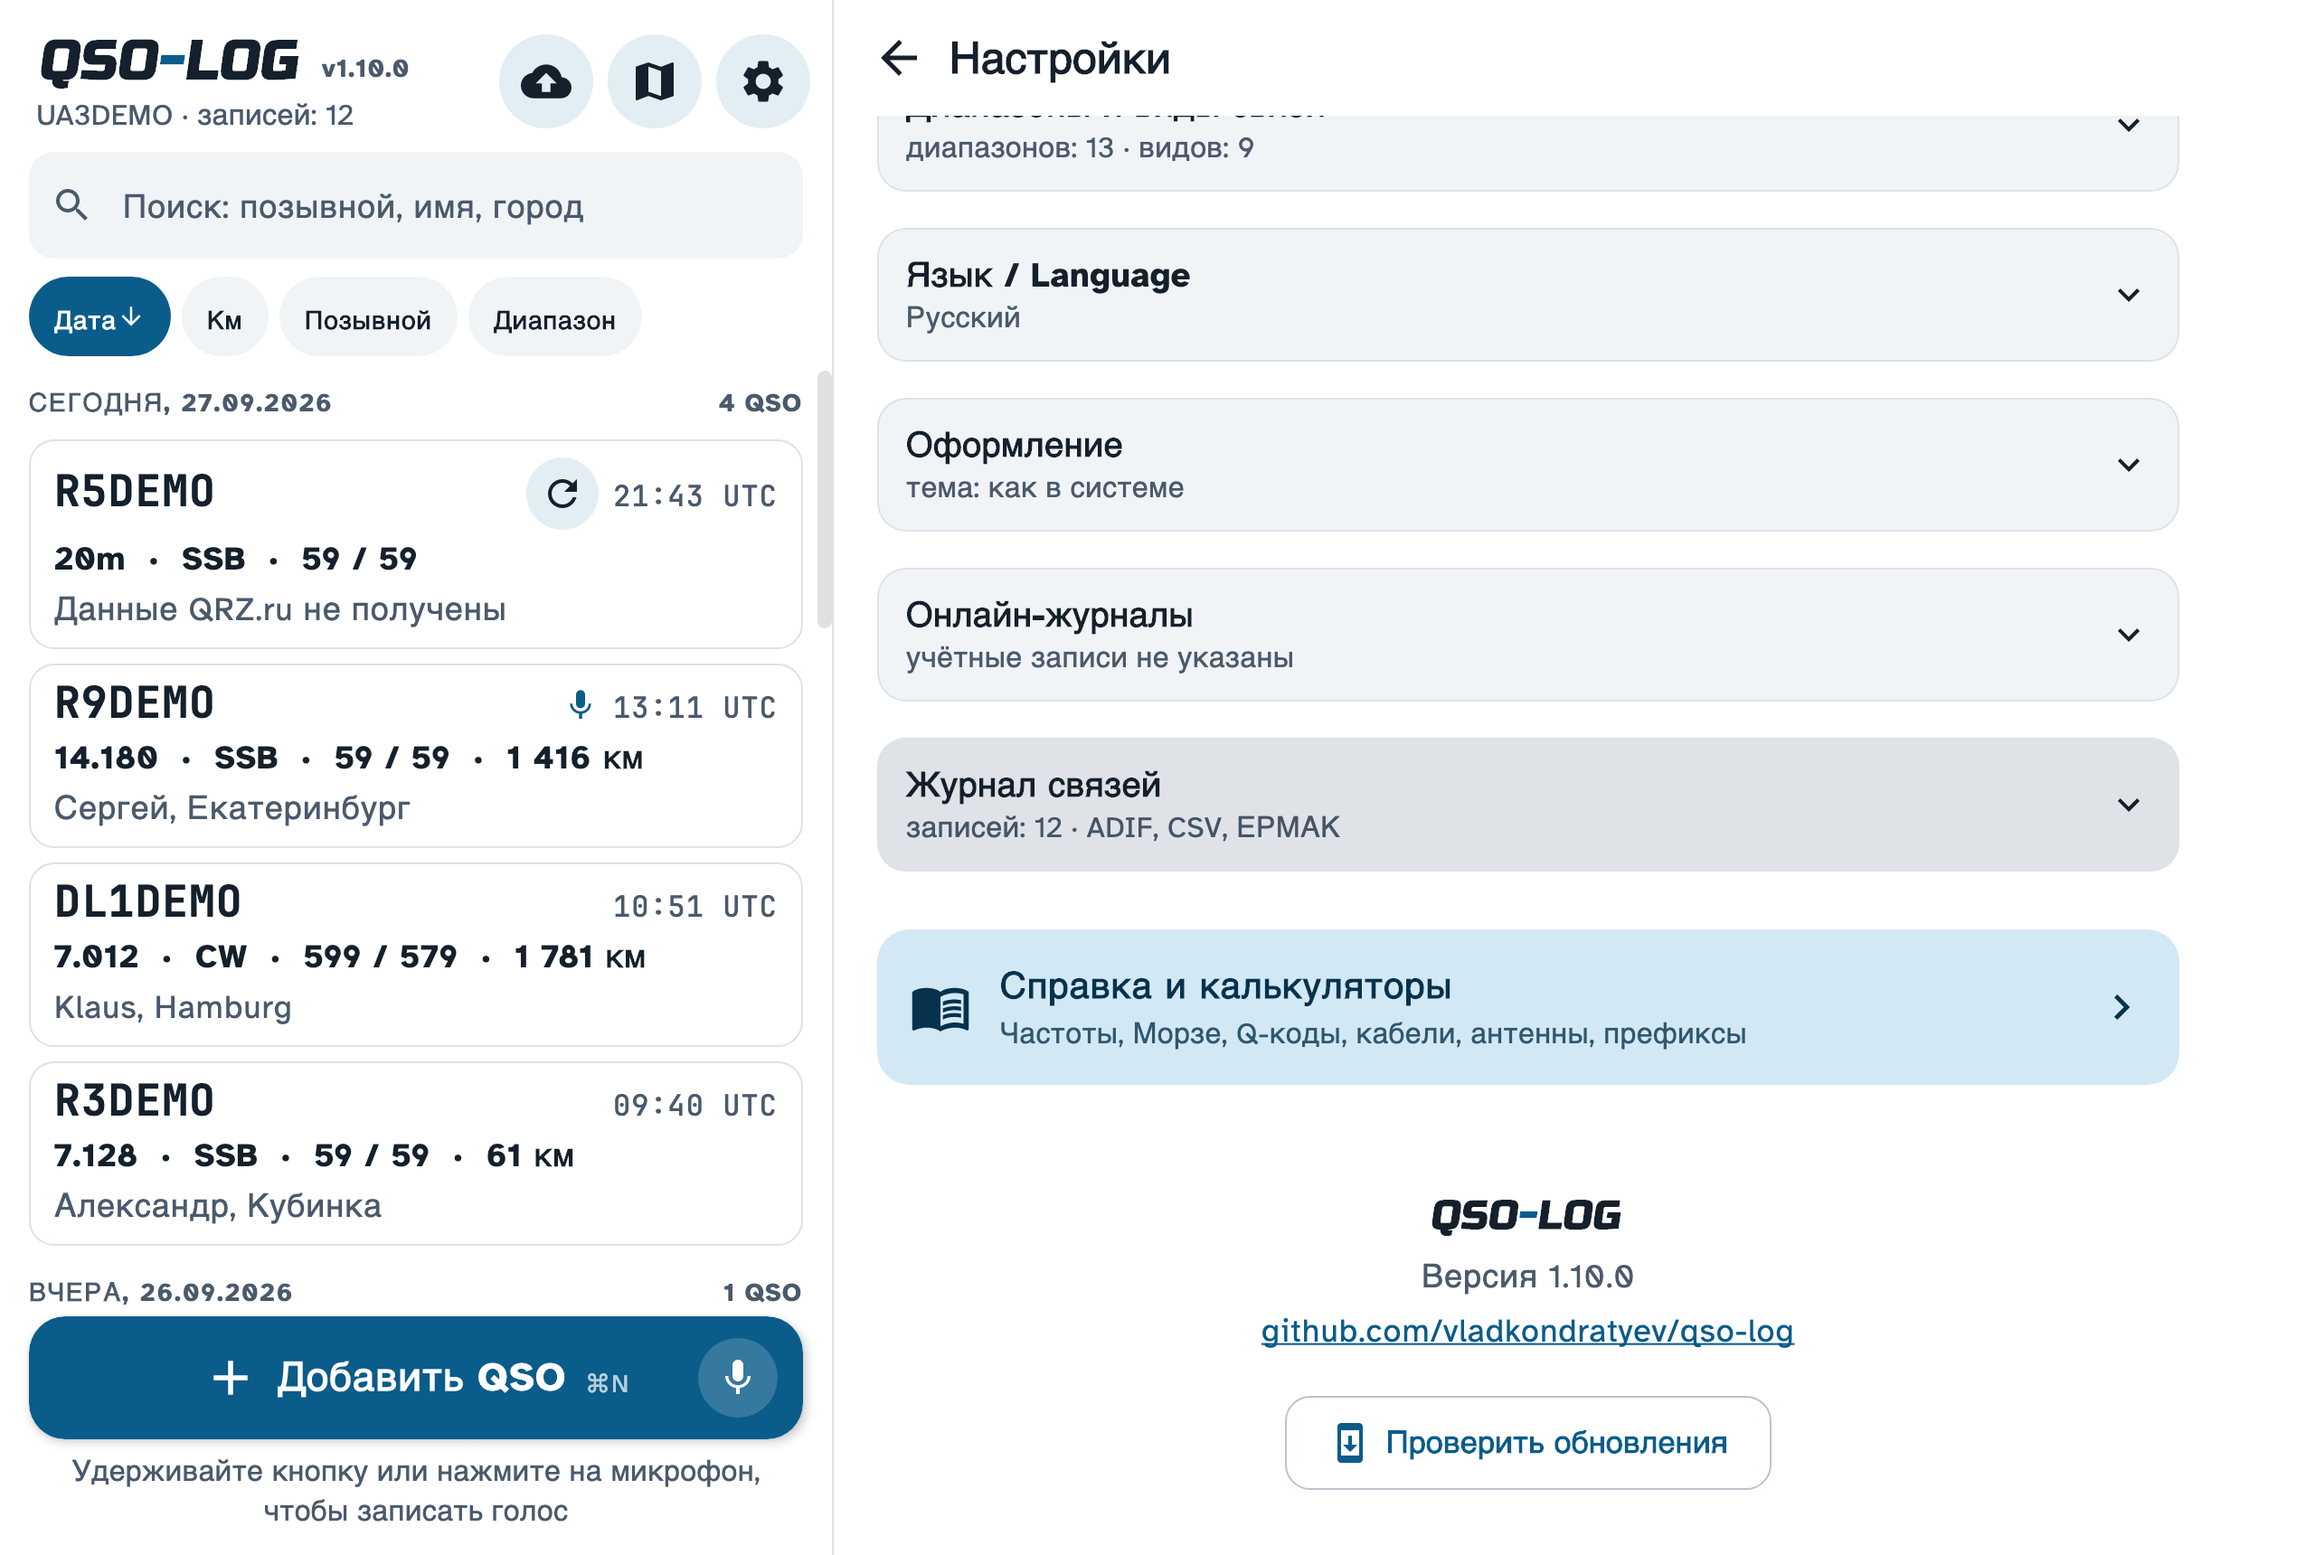
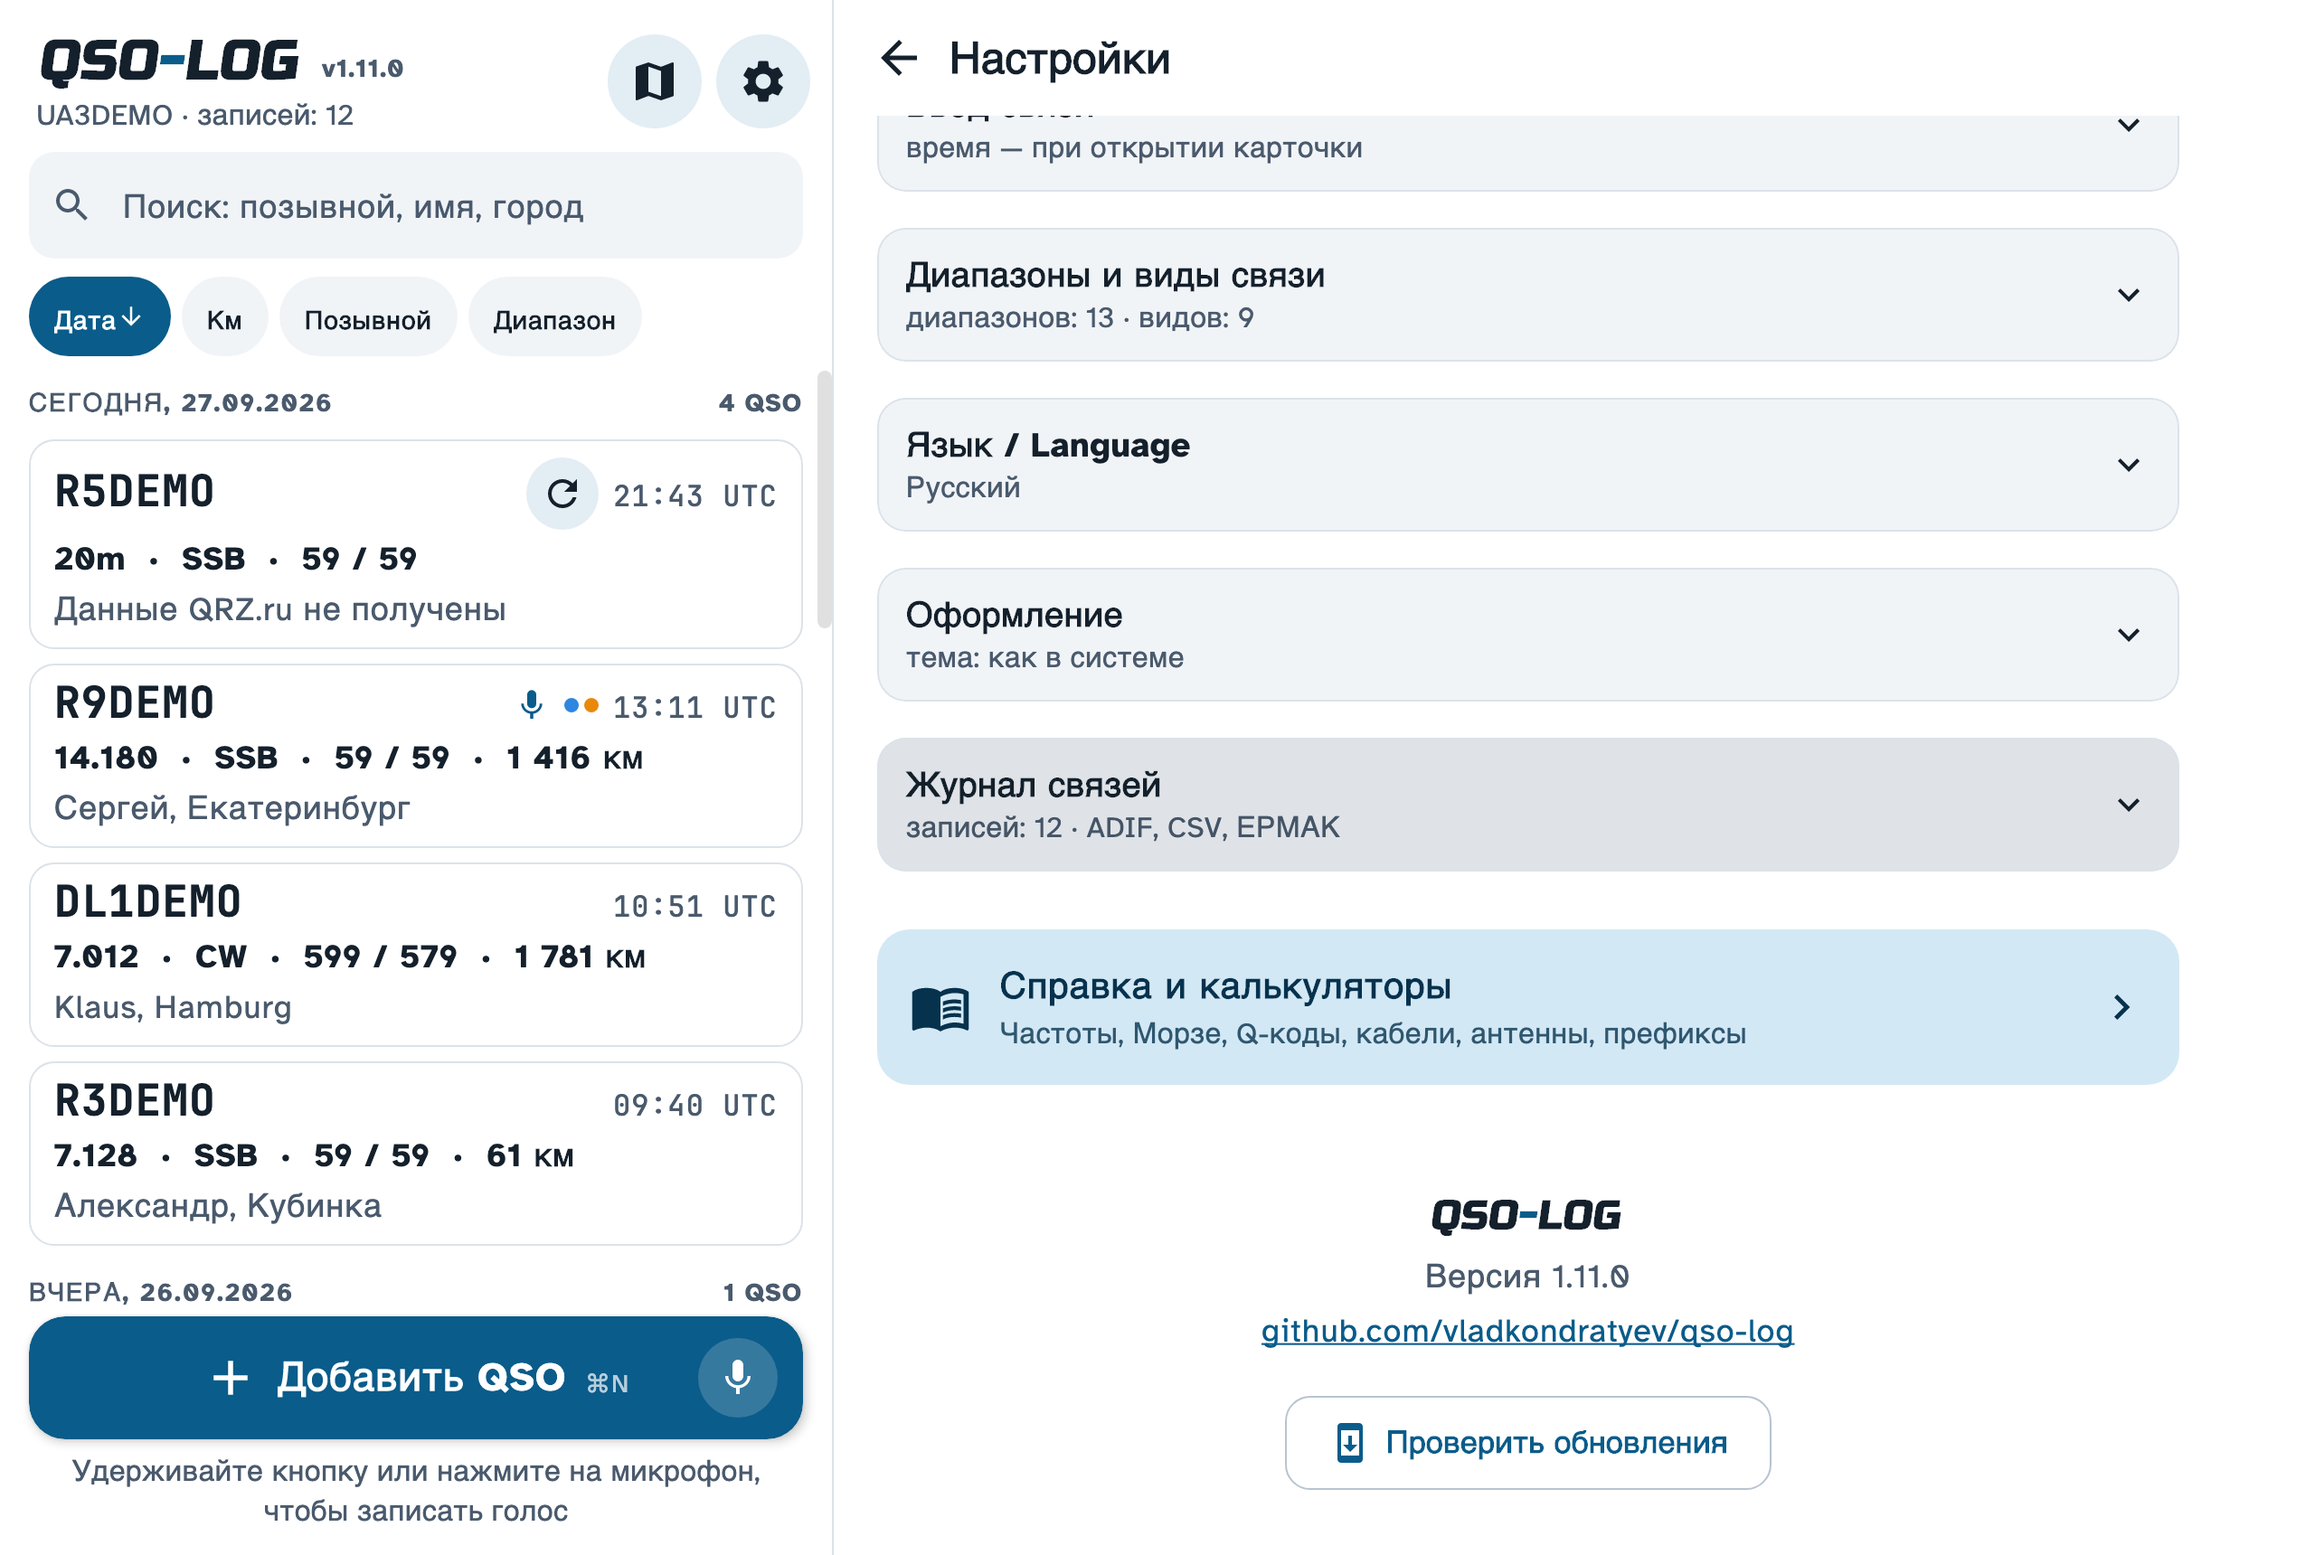
Desktop 1.11.0: online logbook upload removed, export marks for ADIF, CSV and ЕРМАК/Cabrillo with coloured dots in the log

diff --git a/desktop/src/test/kotlin/ru/r3xed/qsolog/Screenshots.kt b/desktop/src/test/kotlin/ru/r3xed/qsolog/Screenshots.kt
@@ -17,10 +17,12 @@ import org.jetbrains.skia.EncodedImageFormat
 import ru.r3xed.qsolog.data.Geo
 import ru.r3xed.qsolog.data.LatLon
 import ru.r3xed.qsolog.data.Qso
+import ru.r3xed.qsolog.data.ExportFormat
 import ru.r3xed.qsolog.ui.QsoTheme
 import java.io.File
 import java.nio.file.Files
 import java.time.LocalDate
+import java.time.LocalDateTime
 import java.time.LocalTime
 import java.time.ZoneOffset
 import kotlin.math.PI
@@ -42,7 +44,7 @@ fun main(args: Array<String>) {
             val state = AppState()
             // Russian shots first (the README is in Russian), a few English ones at the end.
             state.changeLanguage(Lang.RU)
-            val files = Exports({}, {}, {}, {}, {}, {}, {})
+            val files = Exports({}, {}, {}, {}, {}, { _, _, _ -> }, {}, { _, _ -> })
             var dark by mutableStateOf(false)
             // Sized in pixels: a 1280×860 window at 2× (Retina) scale.
             val big = ImageComposeScene(2560, 1720, Density(2f)) { QsoTheme(dark) { key(state.language) { App(state, files) } } }
@@ -85,6 +87,9 @@ fun main(args: Array<String>) {
             shot("04-card-map", 6000)
             scrollRight(60)
             shot("05-all-fields")
+            // The very bottom of the card: when the contact went into ADIF, CSV and contest-report files.
+            scrollRight(400)
+            shot("12-export-marks")
 
             state.openMap()
             shot("06-map", 8000)
@@ -95,6 +100,10 @@ fun main(args: Array<String>) {
             shot("07-select")
             state.clearSelection()
             state.sort(SortBy.DATE)
+
+            state.openExport(ExportFormat.ADIF, selectedOnly = false)
+            shot("13-export-dialog")
+            state.closeExport()
 
             state.pane = Pane.Settings
             shot("08-settings")
@@ -153,7 +162,15 @@ private fun seed(dir: File) {
         qso("LY2DEMO", at(6, "16:48"), "20m", "SSB", "14.195", ssb, "Tomas", "Vilnius", "Lithuania", LatLon(54.69, 25.28)),
         qso("R6DEMO", at(7, "12:30"), "80m", "SSB", "3.650", "59" to "57", "Олег", "Ростов-на-Дону", "Россия", LatLon(47.23, 39.72)),
         qso("R0DEMO", at(8, "06:02"), "20m", "CW", "14.025", "579" to "559", "Павел", "Владивосток", "Россия", LatLon(43.12, 131.89)),
-    ).forEach { db.save(it) }
+    ).map { q ->
+        // Older contacts were already exported: ADIF a day later, CSV and a contest report for some of them.
+        val day = LocalDateTime.ofEpochSecond(q.timeUtc / 1000, 0, ZoneOffset.UTC).plusDays(1).withHour(9).withMinute(30)
+        var m = q
+        if (q.timeUtc < at(0, "00:00")) m = ExportFormat.ADIF.mark(m, day)
+        if (q.timeUtc < at(3, "00:00")) m = ExportFormat.CSV.mark(m, day)
+        if (q.call == "R9DEMO" && q.timeUtc > at(0, "00:00")) m = ExportFormat.ADIF.mark(ExportFormat.CONTEST.mark(m, day.minusDays(1).withHour(14)), day.minusDays(1).withHour(14))
+        m
+    }.forEach { db.save(it) }
 
     // A made-up voice note: a short two-tone beep, 4 seconds.
     val samples = 64_000

diff --git a/README.md b/README.md
@@ -21,10 +21,10 @@
 | Платформа | Версия | Скачать |
 |---|---|---|
 | **Android** 8.0 и новее | 0.26.0 | [QSO-LOG-0.26.0.apk](../../releases/tag/v0.26.0) |
-| **macOS** 11 и новее, Apple Silicon (M1 и новее) | 1.10.0 | [QSO-LOG-1.10.0-macos-arm64.dmg](../../releases/tag/desktop-v1.10.0) |
-| **macOS** 11 и новее, Intel (в том числе Ventura) | 1.10.0 | [QSO-LOG-1.10.0-macos-x64.dmg](../../releases/tag/desktop-v1.10.0) |
-| **Windows** 10/11, 64 бит | 1.10.0 | [QSO-LOG-1.10.0-windows-x64.zip](../../releases/tag/desktop-v1.10.0) |
-| **Linux**: Ubuntu 22.04+, Debian 12, Mint (64 бит) | 1.10.0 | [QSO-LOG-1.10.0-linux-amd64.deb](../../releases/tag/desktop-v1.10.0) |
+| **macOS** 11 и новее, Apple Silicon (M1 и новее) | 1.11.0 | [QSO-LOG-1.11.0-macos-arm64.dmg](../../releases/tag/desktop-v1.11.0) |
+| **macOS** 11 и новее, Intel (в том числе Ventura) | 1.11.0 | [QSO-LOG-1.11.0-macos-x64.dmg](../../releases/tag/desktop-v1.11.0) |
+| **Windows** 10/11, 64 бит | 1.11.0 | [QSO-LOG-1.11.0-windows-x64.zip](../../releases/tag/desktop-v1.11.0) |
+| **Linux**: Ubuntu 22.04+, Debian 12, Mint (64 бит) | 1.11.0 | [QSO-LOG-1.11.0-linux-amd64.deb](../../releases/tag/desktop-v1.11.0) |
 
 Сайт: **[vladkondratyev.github.io/qso-log](https://vladkondratyev.github.io/qso-log/)** — скачать для своей системы в один клик.
 Установка: [Android](#установка-на-android) · [macOS](#установка-на-macos) · [Windows](#установка-на-windows) ·
@@ -50,7 +50,7 @@
 
 QSO-LOG написан на Kotlin: общая часть (журнал, ADIF, ЕРМАК/Cabrillo, расчёт расстояния, QRZ.ru, HamQTH) одна для
 всех систем, интерфейс — Jetpack Compose на Android и Compose Multiplatform на компьютере. Поэтому **версия для
-компьютера умеет то же, что и Android**: версия 1.10.0 для macOS, Windows и Linux соответствует Android 0.25.0; отметки об экспорте из Android 0.26.0 появятся в следующей версии для компьютера.
+компьютера умеет то же, что и Android**: версия 1.11.0 для macOS, Windows и Linux соответствует Android 0.26.0.
 
 - **Телефон** — в эфире, в походе, на даче: одна рука, крупные кнопки, голосовая заметка удержанием кнопки.
 - **Компьютер** — в шеке: окно в две колонки (журнал слева, карточка справа), ввод с клавиатуры, горячие клавиши.
@@ -331,6 +331,8 @@ the same on the phone and on the computer.
 <img src="docs/screenshots/desktop-05-all-fields.png" width="440" alt="Все поля ADIF">
 <img src="docs/screenshots/desktop-06-map.png" width="440" alt="Карта QSO">
 <img src="docs/screenshots/desktop-07-select.png" width="440" alt="Выбор записей для экспорта">
+<img src="docs/screenshots/desktop-13-export-dialog.png" width="440" alt="Экспорт: только новые и отметка в карточках">
+<img src="docs/screenshots/desktop-12-export-marks.png" width="440" alt="Отметки об экспорте внизу карточки">
 <img src="docs/screenshots/desktop-08-settings.png" width="440" alt="Настройки">
 <img src="docs/screenshots/desktop-09-about.png" width="440" alt="Версия и ссылка на проект">
 <img src="docs/screenshots/desktop-10-dark.png" width="440" alt="Тёмная тема">
@@ -346,8 +348,8 @@ the same on the phone and on the computer.
 
 ## Установка на macOS
 
-1. Скачайте со страницы [релиза](../../releases/tag/desktop-v1.10.0) файл для своего Mac (macOS 11 и новее):
-   `QSO-LOG-1.10.0-macos-arm64.dmg` — процессор Apple (M1 и новее), `QSO-LOG-1.10.0-macos-x64.dmg` — процессор Intel.
+1. Скачайте со страницы [релиза](../../releases/tag/desktop-v1.11.0) файл для своего Mac (macOS 11 и новее):
+   `QSO-LOG-1.11.0-macos-arm64.dmg` — процессор Apple (M1 и новее), `QSO-LOG-1.11.0-macos-x64.dmg` — процессор Intel.
    Какой у вас: меню  → «Об этом Mac», строка «Чип» (Apple) или «Процессор» (Intel).
 2. Откройте DMG и перетащите QSO-LOG в «Программы».
 3. Программа не подписана сертификатом Apple, поэтому первый запуск macOS заблокирует. Откройте
@@ -360,7 +362,7 @@ the same on the phone and on the computer.
 
 ## Установка на Windows
 
-1. Скачайте `QSO-LOG-1.10.0-windows-x64.zip` со страницы [релиза](../../releases/tag/desktop-v1.10.0).
+1. Скачайте `QSO-LOG-1.11.0-windows-x64.zip` со страницы [релиза](../../releases/tag/desktop-v1.11.0).
 2. Распакуйте архив целиком, например в «Документы». Из самого архива программа не запустится.
 3. Запустите `QSO-LOG.exe` в папке QSO-LOG. Java устанавливать не нужно, она внутри.
 4. Windows покажет «Система Windows защитила ваш компьютер», потому что программа не подписана:
@@ -373,10 +375,10 @@ the same on the phone and on the computer.
 
 ## Установка на Linux (Ubuntu, Debian)
 
-1. Скачайте `QSO-LOG-1.10.0-linux-amd64.deb` со страницы [релиза](../../releases/tag/desktop-v1.10.0).
+1. Скачайте `QSO-LOG-1.11.0-linux-amd64.deb` со страницы [релиза](../../releases/tag/desktop-v1.11.0).
 2. Установите в терминале из папки с файлом:
    ```bash
-   sudo apt install ./QSO-LOG-1.10.0-linux-amd64.deb
+   sudo apt install ./QSO-LOG-1.11.0-linux-amd64.deb
    ```
    Или двойным щелчком по файлу в «Центре приложений».
 3. QSO-LOG появится в меню приложений (раздел «Любительское радио» / «Интернет»).
